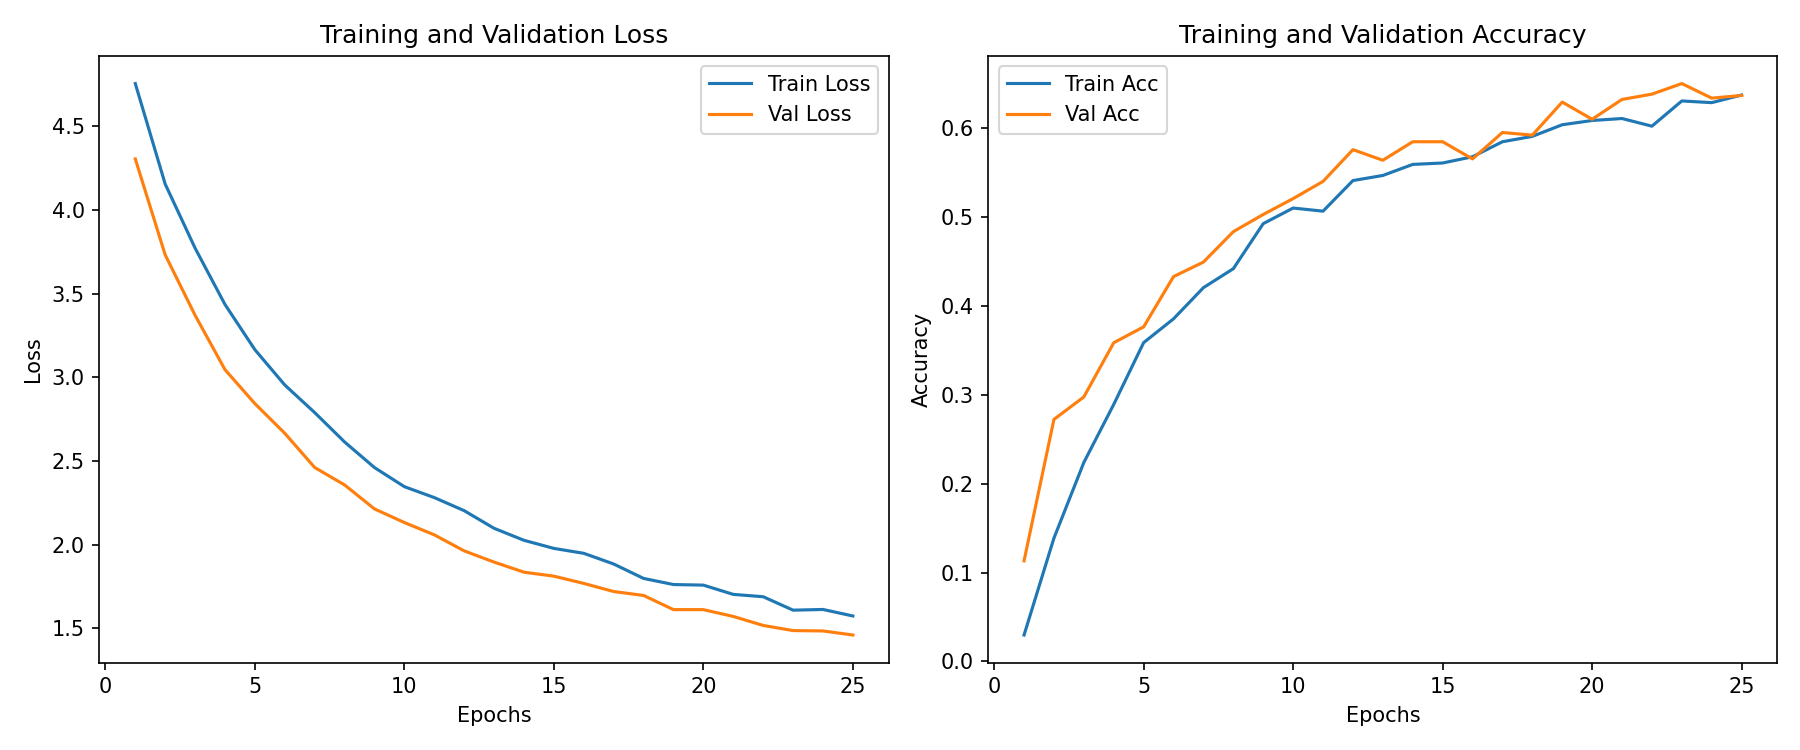
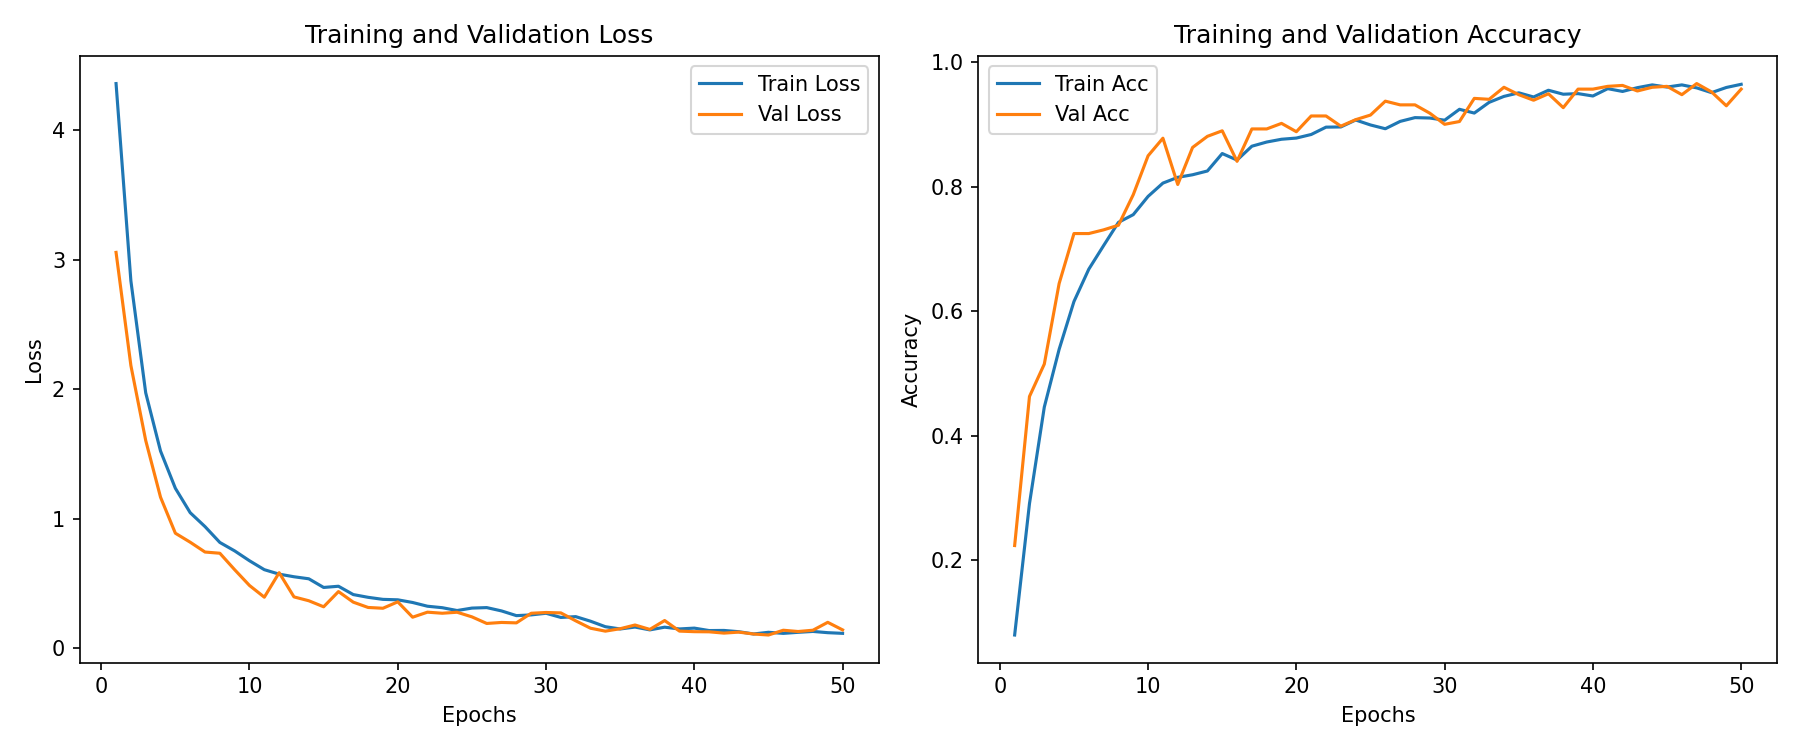
Added epochs, unfroze last resnet layer, reduce lr when hitting plateau, augment images + fastAPI in localhost

diff --git a/notebooks/train_model.py b/notebooks/train_model.py
@@ -5,6 +5,7 @@ import numpy as np
 import torch
 import torch.nn as nn
 import torch.optim as optim
+from torch.optim.lr_scheduler import ReduceLROnPlateau
 from torch.utils.data import DataLoader
 
 import torchvision
@@ -23,7 +24,7 @@ VAL_DIR = DATA_DIR / "val" / "images"
 TEST_DIR = DATA_DIR / "test" / "images"
 
 BATCH_SIZE = 128  # optimal for RTX 4070 Super with this dataset
-NUM_EPOCHS = 25
+NUM_EPOCHS = 50
 LEARNING_RATE = 0.001
 NUM_CLASSES = 112 # dataset specific
 
@@ -38,7 +39,10 @@ print(f"Using device: {DEVICE}")
 train_transforms = transforms.Compose([
     transforms.Resize((IMG_SIZE, IMG_SIZE)),
     transforms.RandomHorizontalFlip(),
-    transforms.RandomRotation(10),
+    transforms.RandomVerticalFlip(p=0.3),
+    transforms.RandomRotation(15),
+    transforms.ColorJitter(brightness=0.2, contrast=0.2, saturation=0.2, hue=0.1),
+    transforms.RandomAffine(degrees=0, translate=(0.1, 0.1), scale=(0.9, 1.1)),
     transforms.ToTensor(),
     transforms.Normalize(
         mean=[0.485, 0.456, 0.406],
@@ -69,20 +73,30 @@ print(f"Train: {len(train_dataset)} | Val: {len(val_dataset)} | Test: {len(test_
 # USING RESNET50
 model = models.resnet50(weights=models.ResNet50_Weights.IMAGENET1K_V1)
 
-# freeze all layers (only train the final classifier (fc))
+# freeze all layers first
 for param in model.parameters():
     param.requires_grad = False
+
+# unfreeze layer4 (last ResNet block) for fine-tuning
+for param in model.layer4.parameters():
+    param.requires_grad = True
 
 # replace the final fully connected layer for our 112 classes
 # Linear(2048, 1000) -> Linear(2048, 112)
 model.fc = nn.Linear(model.fc.in_features, NUM_CLASSES)
 model = model.to(DEVICE)
 
-print(f"Model: ResNet50 with {NUM_CLASSES} output classes")
+print(f"Model: ResNet50 with {NUM_CLASSES} output classes (layer4 + fc unfrozen)")
 
-# loss function and optimizer
+# loss function and optimizer (train both layer4 and fc)
 criterion = nn.CrossEntropyLoss()
-optimizer = optim.Adam(model.fc.parameters(), lr=LEARNING_RATE)  # fc layer
+optimizer = optim.Adam([
+    {'params': model.layer4.parameters(), 'lr': LEARNING_RATE * 0.1},  # lower LR for pretrained layer
+    {'params': model.fc.parameters(), 'lr': LEARNING_RATE}
+])
+
+# reduce LR when validation loss plateaus
+scheduler = ReduceLROnPlateau(optimizer, mode='min', factor=0.5, patience=5)
 
 def train_one_epoch(model, loader, criterion, optimizer, device):
     model.train()
@@ -150,6 +164,9 @@ for epoch in range(NUM_EPOCHS):
 
     print(f"Train Loss: {train_loss:.4f}, Train Acc: {train_acc:.4f}")
     print(f"Val Loss: {val_loss:.4f}, Val Acc: {val_acc:.4f}")
+
+    # step scheduler based on validation loss
+    scheduler.step(val_loss)
 
     train_loss_values.append(train_loss)
     val_loss_values.append(val_loss)

diff --git a/api/main.py b/api/main.py
@@ -1,0 +1,92 @@
+import re
+import io
+import json
+from pathlib import Path
+
+import torch
+import torch.nn as nn
+from torchvision import transforms, models
+from PIL import Image
+from fastapi import FastAPI, UploadFile, File
+from fastapi.middleware.cors import CORSMiddleware
+
+app = FastAPI(title="PillScan API")
+
+# allow React frontend to call this API
+app.add_middleware(
+    CORSMiddleware,
+    allow_origins=["*"],
+    allow_credentials=True,
+    allow_methods=["*"],
+    allow_headers=["*"],
+)
+
+MODEL_PATH = Path(__file__).parent.parent / "notebooks" / "best_model.pth"
+DATA_DIR = Path(__file__).parent.parent / "data.nosync" / "pills_raw" / "ogyeiv2"
+TRAIN_DIR = DATA_DIR / "train" / "images"
+NUM_CLASSES = 112
+IMG_SIZE = 224
+
+DEVICE = torch.device("cuda" if torch.cuda.is_available() else "cpu")
+
+# load class names from training images (same logic as PillDataset)
+# might need to change
+def get_class_name(path):
+    name = path.stem
+    return re.sub(r'_[su]_\d+$', '', name)
+
+image_paths = list(TRAIN_DIR.glob("*.jpg"))
+CLASSES = sorted(set(get_class_name(p) for p in image_paths))
+print(f"Loaded {len(CLASSES)} classes")
+
+# (same as validation)
+transform = transforms.Compose([
+    transforms.Resize((IMG_SIZE, IMG_SIZE)),
+    transforms.ToTensor(),
+    transforms.Normalize(
+        mean=[0.485, 0.456, 0.406],
+        std=[0.229, 0.224, 0.225]
+    )
+])
+
+def load_model():
+    model = models.resnet50(weights=None)
+    model.fc = nn.Linear(model.fc.in_features, NUM_CLASSES)
+    model.load_state_dict(torch.load(MODEL_PATH, map_location=DEVICE))
+    model = model.to(DEVICE)
+    model.eval()
+    return model
+
+model = load_model()
+print(f"Model loaded from {MODEL_PATH}")
+
+@app.get("/")
+def root():
+    return {"status": "ok", "classes": len(CLASSES)}
+
+@app.post("/predict")
+async def predict(file: UploadFile = File(...)):
+    contents = await file.read()
+    image = Image.open(io.BytesIO(contents)).convert("RGB")
+
+    input_tensor = transform(image).unsqueeze(0).to(DEVICE)
+
+    # predict
+    with torch.no_grad():
+        outputs = model(input_tensor)
+        probabilities = torch.softmax(outputs, dim=1)
+        confidence, predicted = torch.max(probabilities, 1)
+
+    class_idx = predicted.item()
+    class_name = CLASSES[class_idx]
+    confidence_score = confidence.item()
+
+    return {
+        "class_name": class_name,
+        "confidence": round(confidence_score * 100, 2),
+        "class_index": class_idx
+    }
+
+@app.get("/classes")
+def get_classes():
+    return {"classes": CLASSES}
